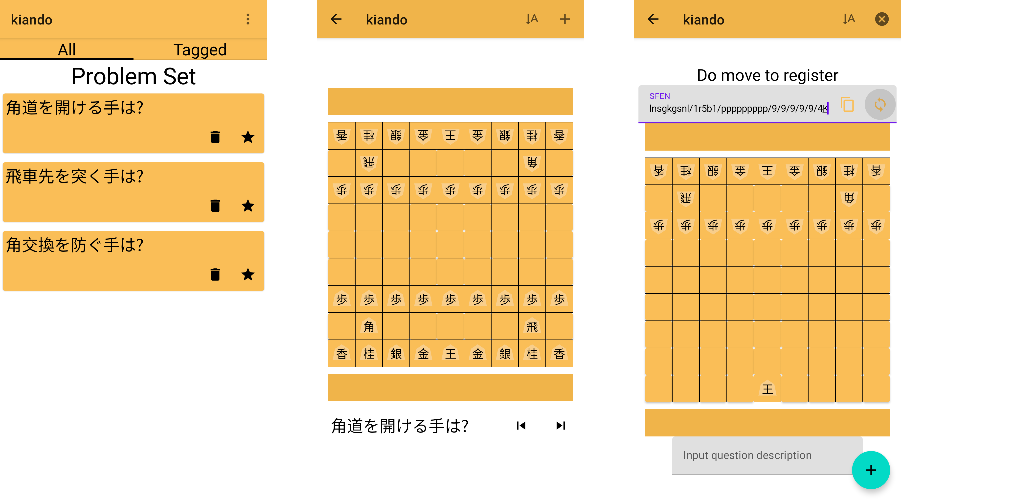
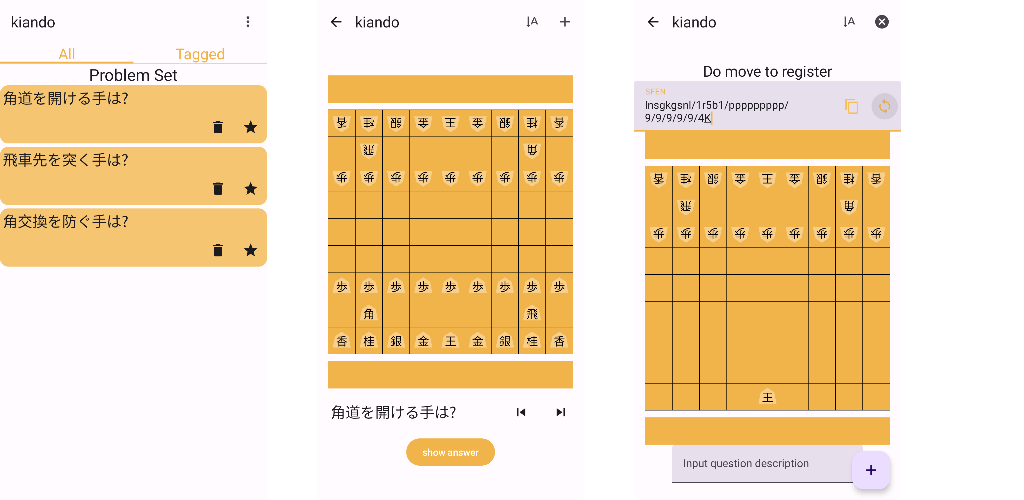
changed card color and update feature_graphic

diff --git a/app/src/main/java/jp/kawagh/kiando/ui/components/QuestionCard.kt b/app/src/main/java/jp/kawagh/kiando/ui/components/QuestionCard.kt
@@ -12,6 +12,7 @@ import androidx.compose.ui.tooling.preview.Preview
 import androidx.compose.ui.unit.dp
 import jp.kawagh.kiando.Question
 import jp.kawagh.kiando.sampleQuestion
+import jp.kawagh.kiando.ui.theme.CardColor
 import jp.kawagh.kiando.ui.theme.KiandoM3Theme
 
 @OptIn(ExperimentalMaterial3Api::class)
@@ -25,6 +26,9 @@ fun QuestionCard(
     val isFavorite = question.tag_id == 1
     Card(
         onClick = onClick,
+        colors = CardDefaults.cardColors(
+        containerColor = CardColor
+        ),
     ) {
         Column() {
             Text(

diff --git a/app/src/main/java/jp/kawagh/kiando/ui/theme/Theme.kt b/app/src/main/java/jp/kawagh/kiando/ui/theme/Theme.kt
@@ -40,7 +40,7 @@ private val DarkColorScheme = darkColorScheme(
 private val LightColorScheme = lightColorScheme(
     primary = BoardColorUnfocused,
     secondary = Teal200,
-    surfaceVariant = CardColor // Card background
+//    surfaceVariant = CardColor // Card and TextField  background
 )
 
 
